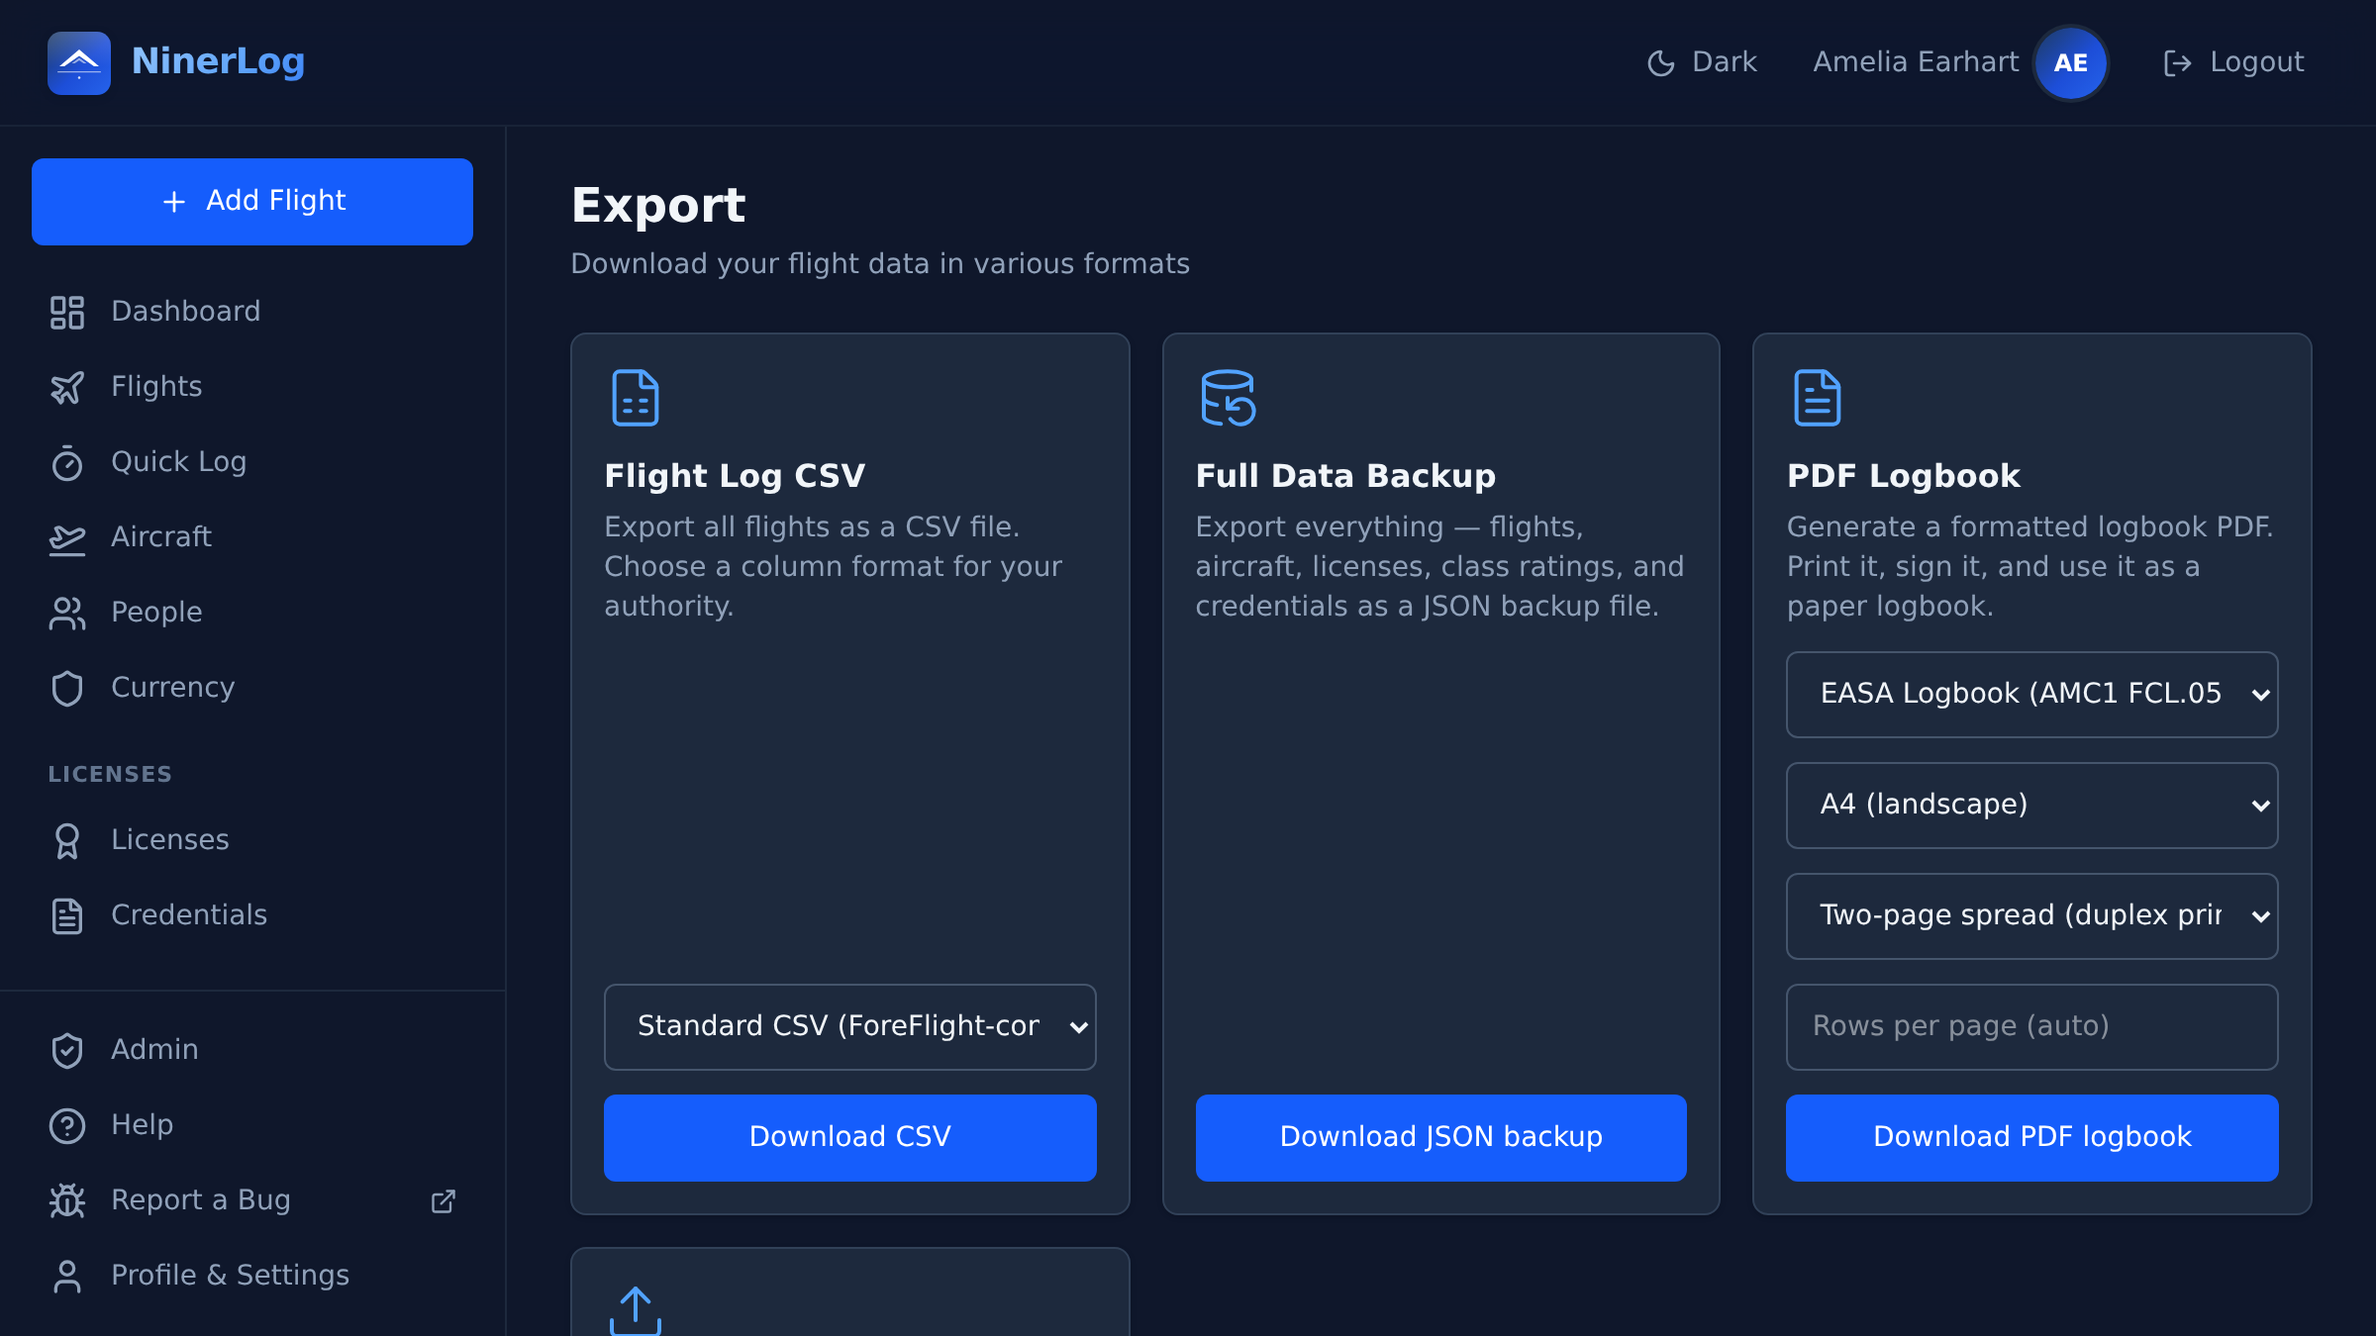
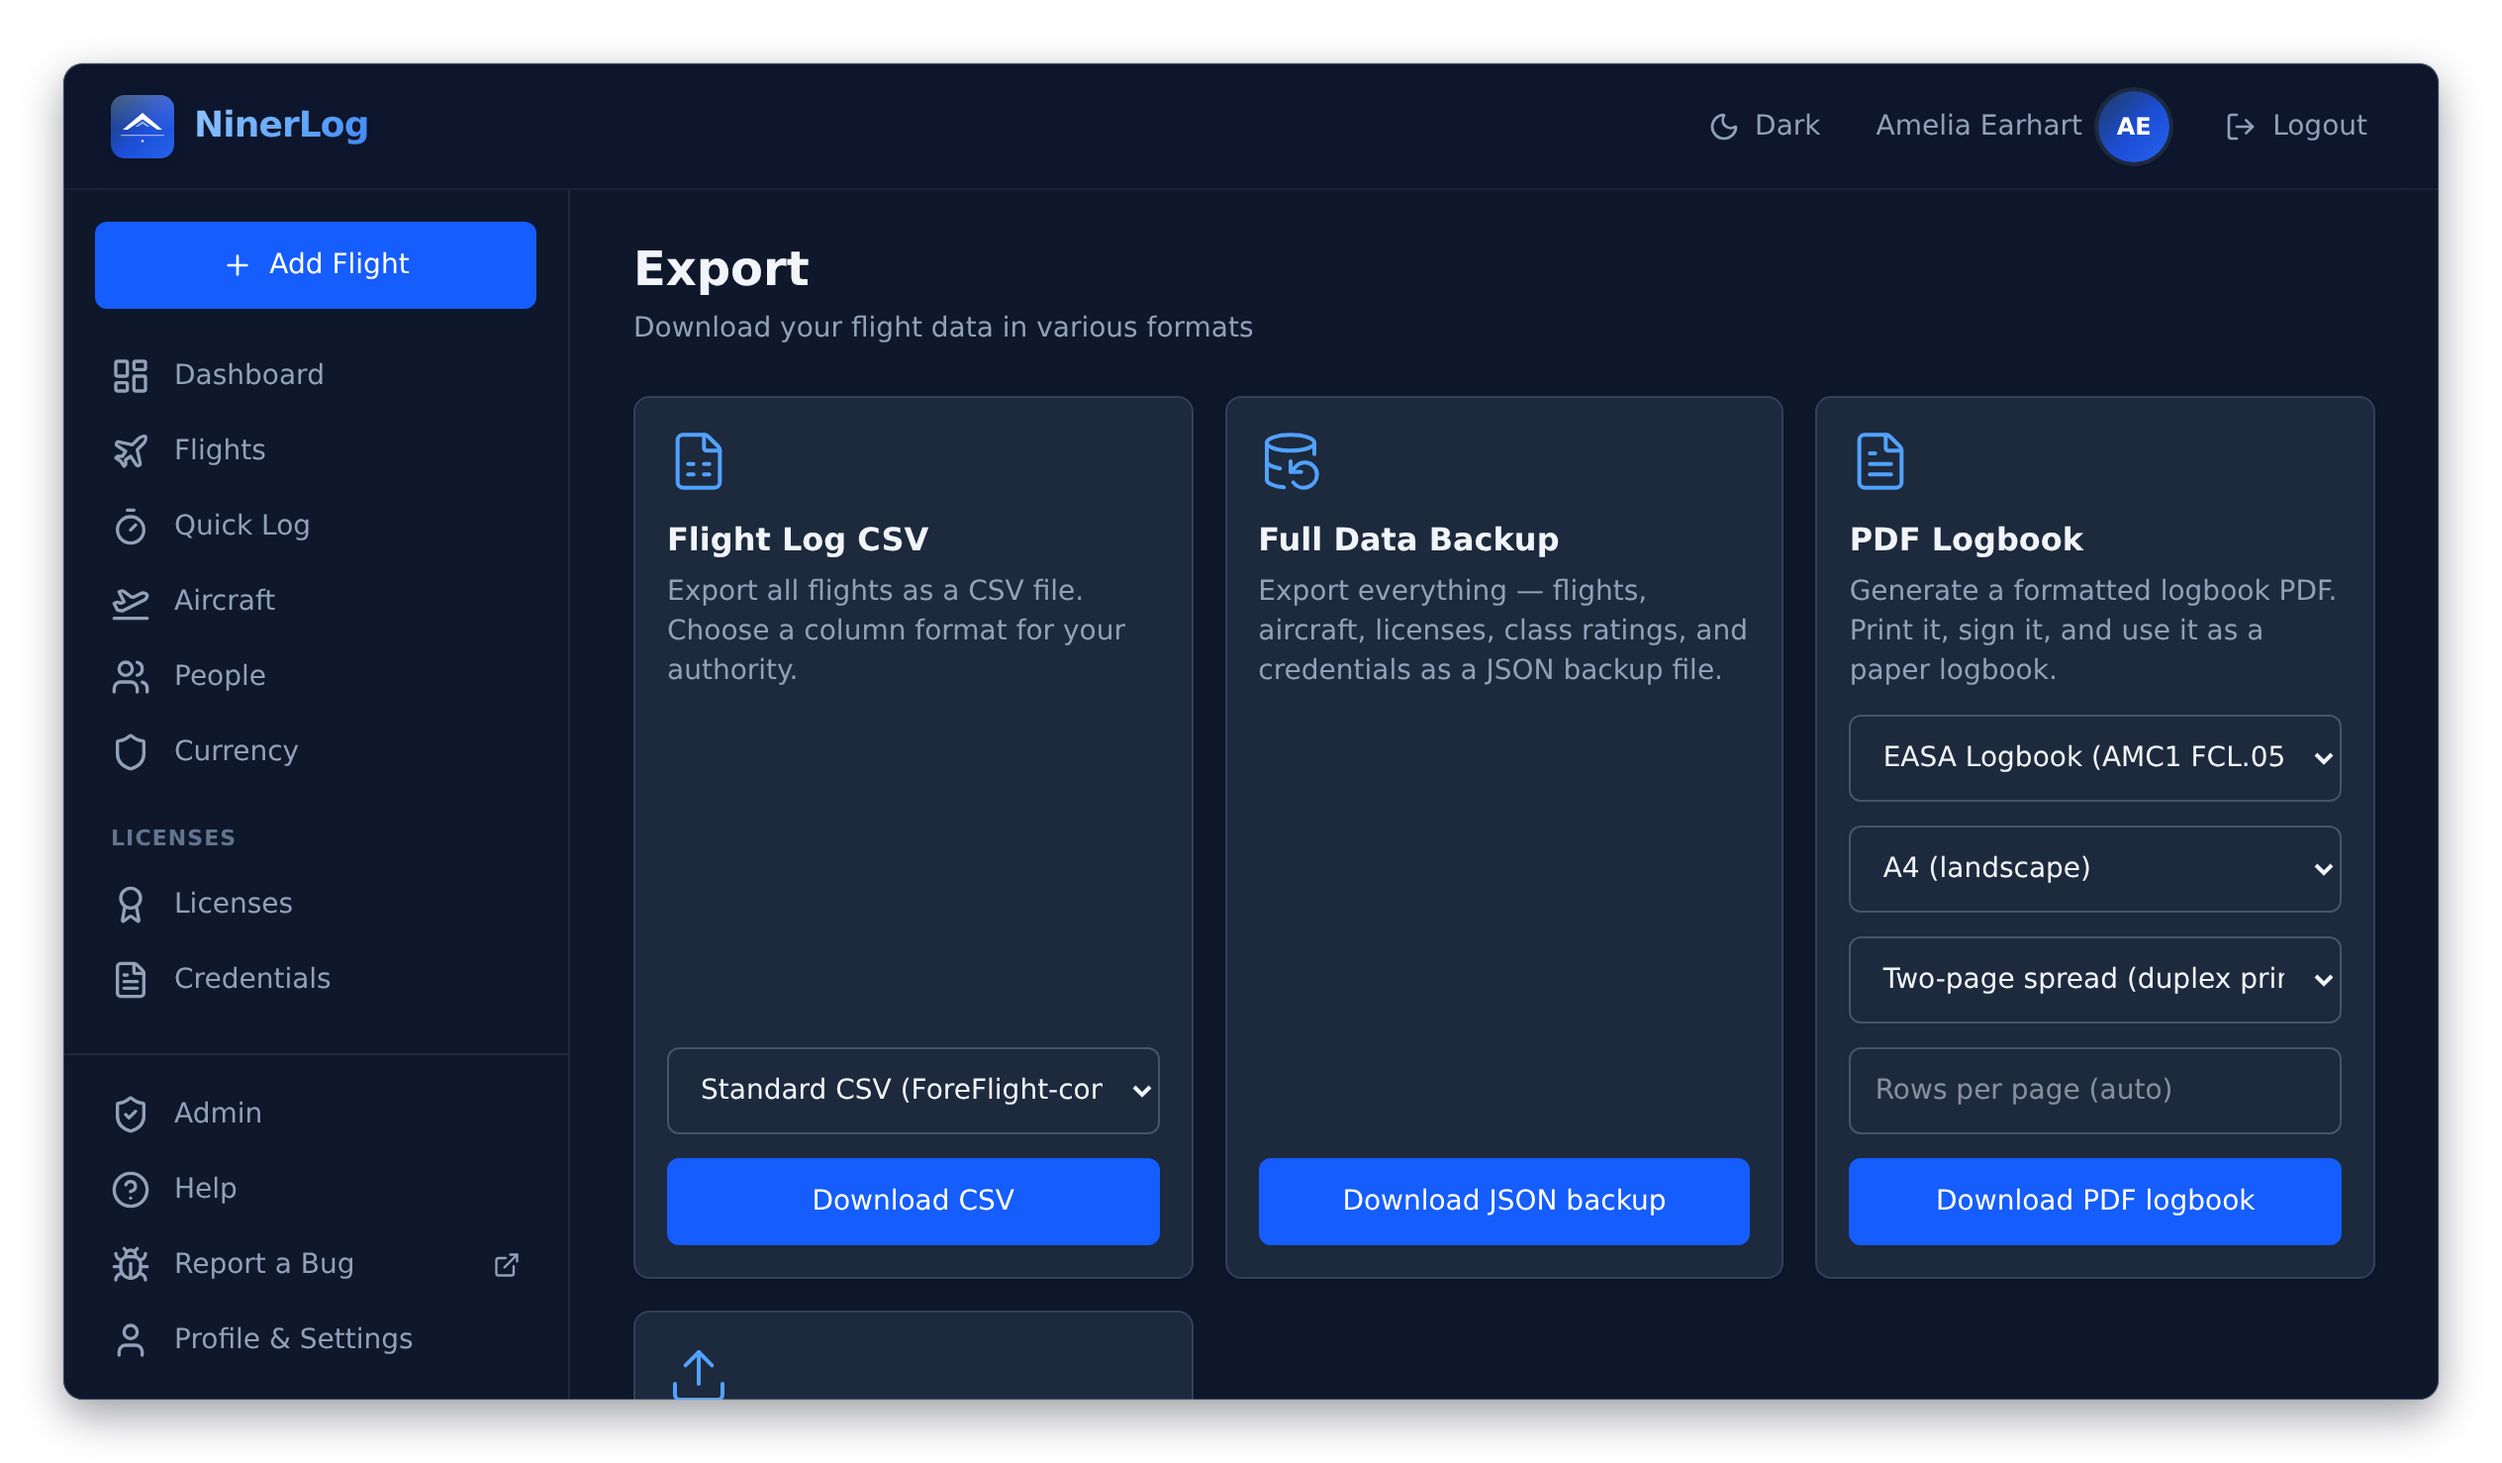
feat: pre-framed feature stills with baked-in shade
Feature screenshots now carry their frame in the PNG itself — rounded
corners, hairline border and drop shadow on a transparent margin — so
they stand out on any background, including the hotlinking GitHub
README. Pages drop their CSS rounded/shadow classes for stills to avoid
double-framing; videos keep the CSS frame and switch to unframed
poster-* copies so the poster matches playback.

Claude-Session: https://claude.ai/code/session_01Ebx9oVorWPEMrVFpsrqNgM

Changed region(s): [[0.0, 0.0, 1.0, 1.0]]

diff --git a/.claude/skills/feature-media/SKILL.md b/.claude/skills/feature-media/SKILL.md
@@ -36,22 +36,27 @@ toggle. Theme-dependent media is always an element pair:
 
 ```html
 <div class="w-full order-last lg:order-none">
-  <img src="/images/feature-x.png"      alt="…" class="rounded-xl shadow-xl w-full dark:hidden"       loading="lazy" width="1200" height="675" />
-  <img src="/images/feature-x-dark.png" alt="…" class="rounded-xl shadow-xl w-full hidden dark:block" loading="lazy" width="1200" height="675" />
+  <img src="/images/feature-x.png"      alt="…" class="w-full dark:hidden"       loading="lazy" width="1264" height="739" />
+  <img src="/images/feature-x-dark.png" alt="…" class="w-full hidden dark:block" loading="lazy" width="1264" height="739" />
 </div>
 ```
 
+Stills come **pre-framed** — rounded corners, hairline border and drop shadow
+are baked into the PNG on a transparent margin — so never add `rounded-xl` or
+`shadow-xl` to a feature `<img>` (it would double-frame). Framed stills are
+1264×739 CSS px (mobile 457×916).
+
 The wrapper carries the grid/order/sizing classes (a bare pair would become
 two grid children and break the two-column layout); both images share the
-same alt. PNGs are 2400×1350 but keep `width="1200" height="675"` — the
-attributes only fix the aspect ratio.
+same alt — the width/height attributes only fix the aspect ratio.
 
-Demo videos follow the same pairing, with the matching still as poster and
-fallback:
+Demo videos follow the same pairing. They are unframed media, so they DO get
+`rounded-xl shadow-xl` in CSS, and their poster must be one of the unframed
+`poster-*` copies (a framed poster would flash margins before playback):
 
 ```html
 <video class="rounded-xl shadow-xl w-full dark:hidden" autoplay loop muted playsinline
-       preload="metadata" poster="/images/feature-x.png" width="1200" height="675" aria-label="…">
+       preload="metadata" poster="/images/poster-x.png" width="1200" height="675" aria-label="…">
   <source src="/images/demo-x.webm" type="video/webm" />
   <img src="/images/feature-x.png" alt="…" class="w-full" loading="lazy" width="1200" height="675" />
 </video>
